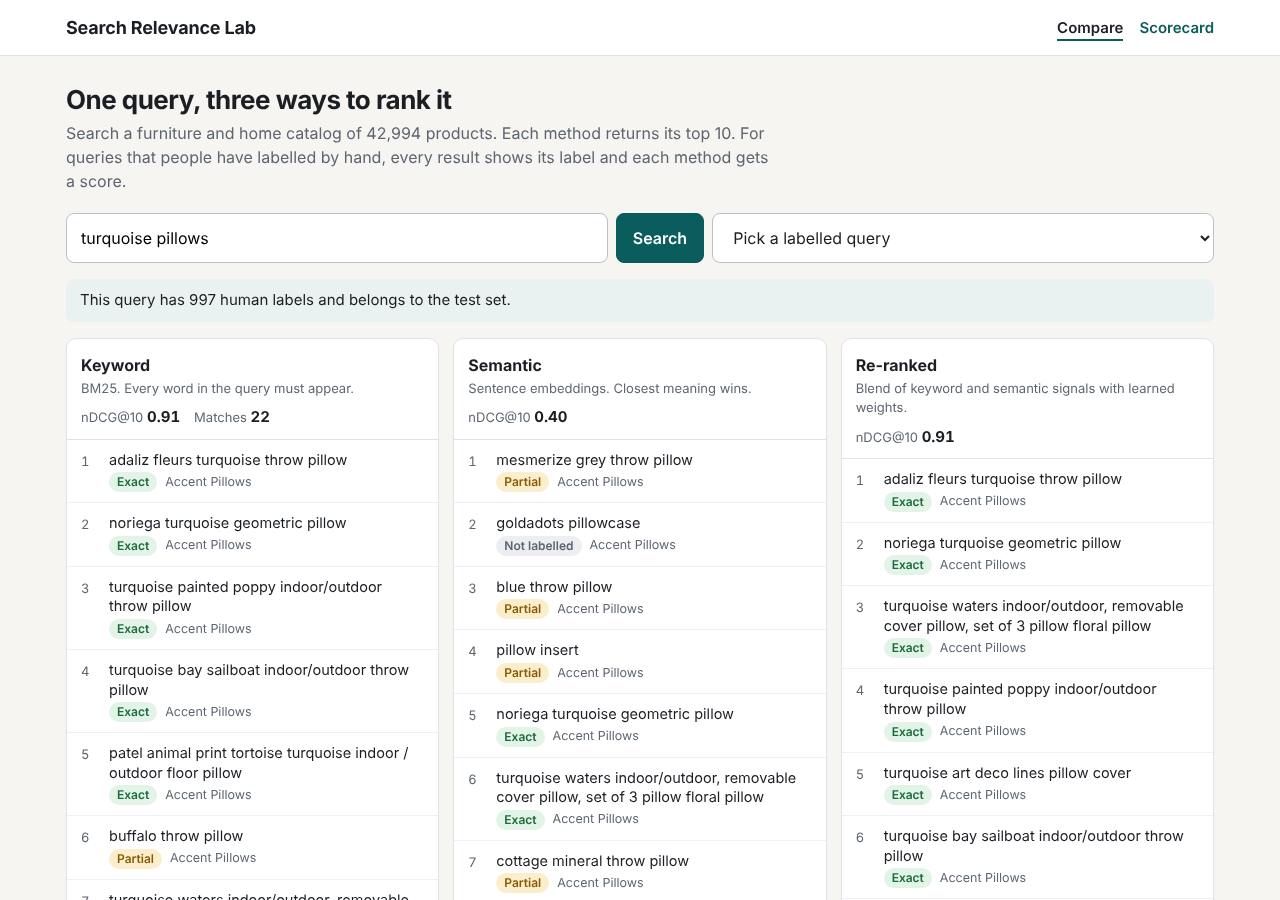
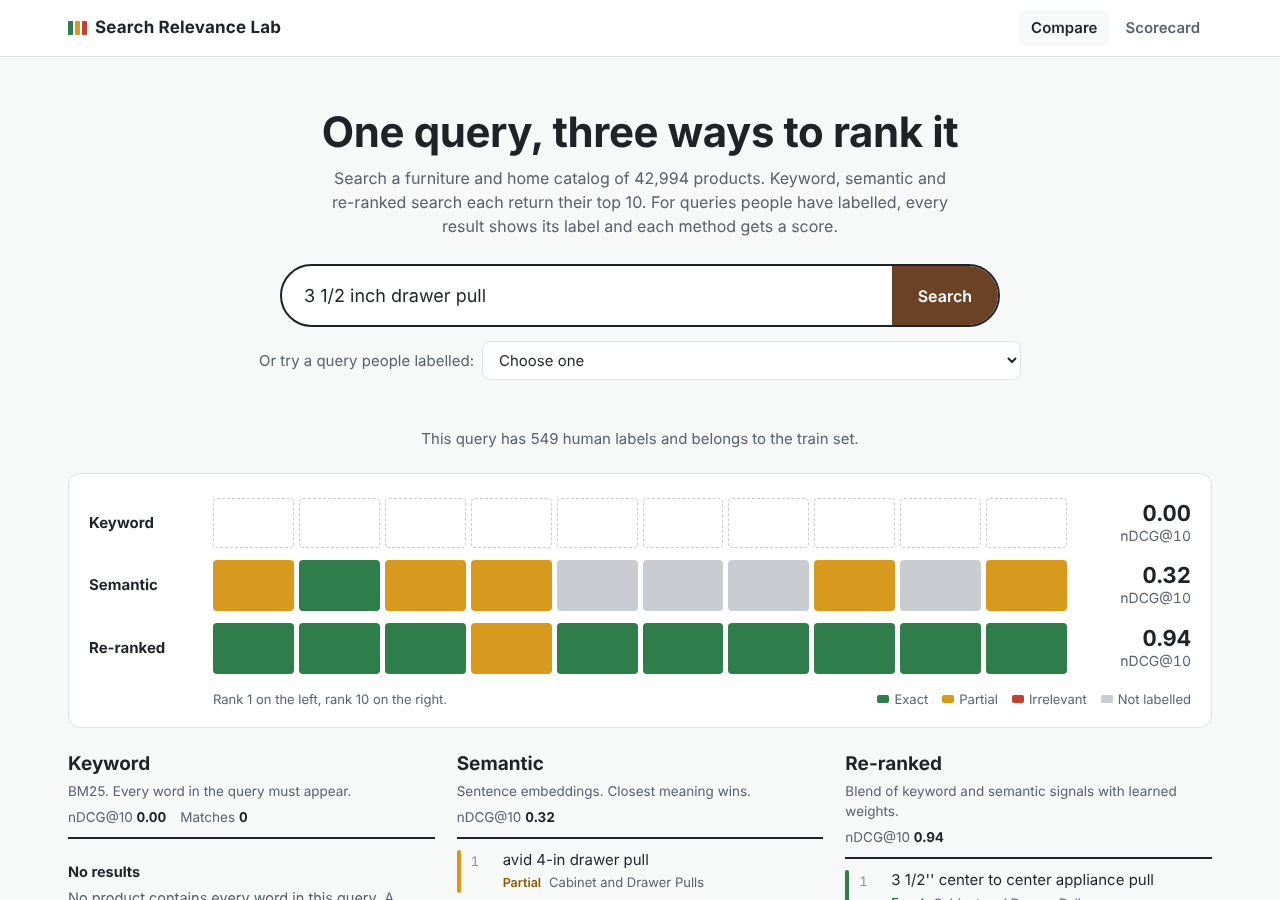
v0.2.0: search box and relevance strip design

diff --git a/index.html b/index.html
@@ -4,80 +4,120 @@
 <meta charset="utf-8">
 <meta name="viewport" content="width=device-width, initial-scale=1">
 <title>Search Relevance Lab</title>
+<link rel="preconnect" href="https://fonts.googleapis.com"><link rel="preconnect" href="https://fonts.gstatic.com" crossorigin><link href="https://fonts.googleapis.com/css2?family=Instrument+Sans:wdth,wght@75..100,400..700&display=swap" rel="stylesheet">
 <style>
-  :root { --ink:#1b1f24; --muted:#5d6670; --line:#dfe3e8; --bg:#f6f5f1; --card:#fff; --accent:#0b5c5c;
-          --exact:#1c6b3a; --exact-bg:#e2f3e8; --partial:#8a5a00; --partial-bg:#fbeecd; --irr:#9b2c2c; --irr-bg:#fbe3e3; --none:#5d6670; --none-bg:#eceef1; }
+  :root { --ink:#1f2328; --muted:#59616b; --faint:#8a929b; --line:#e1e4e7; --bg:#f7f8f8; --card:#fff; --walnut:#6b4226; --walnut-2:#55331c;
+          --exact:#2f7d4a; --partial:#d89a1e; --irr:#c2412d; --none:#c9cdd2;
+          --exact-ink:#256b3d; --partial-ink:#8a5d00; --irr-ink:#a83524; }
   * { box-sizing:border-box; }
-  body { margin:0; font:16px/1.5 system-ui,-apple-system,"Segoe UI",Roboto,sans-serif; color:var(--ink); background:var(--bg); }
-  a { color:var(--accent); }
+  body { margin:0; font:16px/1.5 "Instrument Sans",system-ui,sans-serif; color:var(--ink); background:var(--bg); -webkit-font-smoothing:antialiased; }
+  a { color:var(--walnut); }
+  .wrap { max-width:1180px; margin:0 auto; padding:0 18px; }
   header { background:var(--card); border-bottom:1px solid var(--line); }
-  .wrap { max-width:1180px; margin:0 auto; padding:0 16px; }
-  .top { display:flex; align-items:center; justify-content:space-between; gap:12px; padding-top:14px; padding-bottom:14px; flex-wrap:wrap; }
-  .brand { font-weight:700; font-size:18px; letter-spacing:-.01em; }
-  nav a { margin-right:16px; text-decoration:none; font-weight:600; font-size:15px; }
-  nav a:last-child { margin-right:0; }
-  nav a.on { color:var(--ink); border-bottom:2px solid var(--accent); padding-bottom:2px; }
-  h1 { font-size:26px; line-height:1.2; margin:28px 0 6px; letter-spacing:-.02em; }
-  .lede { color:var(--muted); margin:0 0 20px; max-width:70ch; }
-  form { display:flex; gap:8px; flex-wrap:wrap; }
-  input[type=search] { flex:1 1 260px; min-width:0; padding:12px 14px; font:inherit; border:1px solid #b9c0c8; border-radius:8px; background:#fff; }
-  button, select { font:inherit; padding:12px 16px; border-radius:8px; border:1px solid #b9c0c8; background:#fff; color:var(--ink); }
-  button.go { background:var(--accent); border-color:var(--accent); color:#fff; font-weight:600; cursor:pointer; }
-  select { flex:1 1 220px; min-width:0; max-width:100%; }
-  input:focus-visible, button:focus-visible, select:focus-visible, a:focus-visible { outline:3px solid #7fc4c4; outline-offset:2px; }
-  .status { margin:16px 0 0; padding:10px 14px; border-radius:8px; background:#e9f1f1; font-size:15px; }
-  .status.warn { background:var(--partial-bg); }
-  .tabs { display:none; margin-top:16px; border:1px solid var(--line); border-radius:8px; overflow:hidden; background:#fff; }
-  .tabs button { flex:1; border:0; border-radius:0; padding:10px 6px; font-size:14px; font-weight:600; background:#fff; color:var(--muted); cursor:pointer; }
-  .tabs button[aria-selected=true] { background:var(--accent); color:#fff; }
-  .cols { display:grid; grid-template-columns:repeat(3,minmax(0,1fr)); gap:14px; margin:16px 0 28px; }
-  .col { background:var(--card); border:1px solid var(--line); border-radius:10px; min-width:0; }
-  .col h2 { font-size:16px; margin:0; }
-  .colhead { padding:14px 14px 10px; border-bottom:1px solid var(--line); }
-  .how { color:var(--muted); font-size:13px; margin:2px 0 8px; }
-  .metric { display:flex; gap:14px; font-size:13px; color:var(--muted); flex-wrap:wrap; }
-  .metric b { color:var(--ink); font-size:15px; font-variant-numeric:tabular-nums; }
+  .top { display:flex; align-items:center; justify-content:space-between; gap:12px; height:56px; }
+  .brand { font-weight:700; font-size:17px; font-stretch:85%; letter-spacing:.01em; display:flex; align-items:center; gap:8px; white-space:nowrap; }
+  .brand i { display:inline-flex; gap:2px; }
+  .brand i b { width:5px; height:14px; border-radius:1px; }
+  nav { display:flex; gap:4px; }
+  nav a { text-decoration:none; font-weight:600; font-size:15px; color:var(--muted); padding:7px 12px; border-radius:6px; }
+  nav a.on { color:var(--ink); background:var(--bg); }
+  .hero { text-align:center; padding:52px 0 26px; }
+  h1 { font-size:clamp(28px,4vw,42px); line-height:1.08; margin:0 auto; font-weight:700; font-stretch:88%; letter-spacing:-.01em; max-width:26ch; text-wrap:balance; }
+  .lede { color:var(--muted); margin:12px auto 0; max-width:62ch; }
+  form { display:flex; max-width:720px; margin:26px auto 0; background:#fff; border:2px solid var(--ink); border-radius:40px; overflow:hidden; }
+  input[type=search] { flex:1; min-width:0; padding:16px 22px; font:inherit; font-size:18px; border:0; background:transparent; color:var(--ink); }
+  input[type=search]:focus { outline:none; }
+  form:focus-within { box-shadow:0 0 0 4px #e9ddd2; }
+  button.go { font:inherit; font-weight:600; font-size:16px; padding:0 26px; border:0; background:var(--walnut); color:#fff; cursor:pointer; }
+  button.go:hover { background:var(--walnut-2); }
+  .pickrow { margin:14px auto 0; display:flex; justify-content:center; align-items:center; gap:8px; flex-wrap:wrap; font-size:15px; color:var(--muted); }
+  select { font:inherit; font-size:15px; padding:8px 12px; border:1px solid var(--line); border-radius:8px; background:#fff; color:var(--ink); max-width:100%; }
+  button:focus-visible, select:focus-visible, a:focus-visible { outline:3px solid var(--partial); outline-offset:2px; }
+  .status { margin:22px auto 0; text-align:center; font-size:15px; color:var(--muted); max-width:70ch; }
+  .status.warn { color:var(--irr-ink); }
+  /* relevance strip */
+  .strip { background:var(--card); border:1px solid var(--line); border-radius:12px; padding:18px 20px; margin:22px 0 0; }
+  .strip-row { display:grid; grid-template-columns:110px 1fr 110px; align-items:center; gap:14px; padding:6px 0; }
+  .strip-row b { font-size:15px; }
+  .tiles { display:grid; grid-template-columns:repeat(10,1fr); gap:5px; }
+  .tiles span { aspect-ratio:1.6; border-radius:4px; background:var(--none); position:relative; }
+  .tiles span.g2 { background:var(--exact); } .tiles span.g1 { background:var(--partial); } .tiles span.g0 { background:var(--irr); }
+  .tiles span.gx { background:transparent; border:1px dashed var(--none); }
+  .strip-row .score { text-align:right; font-variant-numeric:tabular-nums; font-size:14px; color:var(--muted); }
+  .strip-row .score strong { display:block; font-size:22px; color:var(--ink); line-height:1.1; }
+  .strip-foot { display:flex; justify-content:space-between; gap:12px; flex-wrap:wrap; margin-top:10px; font-size:13px; color:var(--muted); padding-left:124px; }
+  .key { display:flex; gap:14px; flex-wrap:wrap; }
+  .key i { display:inline-block; width:12px; height:8px; border-radius:2px; margin-right:5px; vertical-align:1px; }
+  /* result columns */
+  .tabs { display:none; margin-top:18px; border-bottom:2px solid var(--line); }
+  .tabs button { flex:1; border:0; padding:10px 6px; font:inherit; font-size:15px; font-weight:600; background:none; color:var(--muted); cursor:pointer; border-bottom:3px solid transparent; margin-bottom:-2px; }
+  .tabs button[aria-selected=true] { color:var(--ink); border-bottom-color:var(--walnut); }
+  .cols { display:grid; grid-template-columns:repeat(3,minmax(0,1fr)); gap:22px; margin:22px 0 36px; }
+  .col { min-width:0; }
+  .col h2 { font-size:19px; margin:0; font-stretch:88%; }
+  .colhead { padding:0 0 10px; border-bottom:2px solid var(--ink); }
+  .how { color:var(--muted); font-size:13.5px; margin:2px 0 6px; }
+  .metric { display:flex; gap:14px; font-size:13.5px; color:var(--muted); flex-wrap:wrap; }
+  .metric b { color:var(--ink); font-variant-numeric:tabular-nums; }
   ol { list-style:none; margin:0; padding:0; }
-  li.r { display:grid; grid-template-columns:22px 1fr; gap:6px; padding:10px 14px; border-bottom:1px solid #eef0f2; }
-  li.r:last-child { border-bottom:0; }
-  .rank { color:var(--muted); font-size:13px; font-variant-numeric:tabular-nums; padding-top:2px; }
-  .name { font-size:14.5px; line-height:1.35; overflow-wrap:anywhere; }
-  .sub { font-size:12.5px; color:var(--muted); margin-top:3px; display:flex; gap:8px; flex-wrap:wrap; align-items:center; }
-  .chip { font-size:12px; font-weight:600; padding:1px 8px; border-radius:99px; white-space:nowrap; }
-  .g2 { color:var(--exact); background:var(--exact-bg); } .g1 { color:var(--partial); background:var(--partial-bg); }
-  .g0 { color:var(--irr); background:var(--irr-bg); } .gn { color:var(--none); background:var(--none-bg); }
-  .empty { padding:22px 14px; color:var(--muted); font-size:14.5px; }
+  li.r { display:grid; grid-template-columns:4px 22px 1fr; gap:10px; padding:11px 0; border-bottom:1px solid var(--line); }
+  li.r::before { content:""; grid-row:1; grid-column:1; border-radius:2px; background:var(--lab,transparent); }
+  li.r.g2 { --lab:var(--exact); } li.r.g1 { --lab:var(--partial); } li.r.g0 { --lab:var(--irr); } li.r.gn { --lab:var(--none); }
+  .rank { color:var(--faint); font-size:13px; font-variant-numeric:tabular-nums; padding-top:2px; }
+  .name { font-size:15px; line-height:1.35; overflow-wrap:anywhere; }
+  .sub { font-size:13px; color:var(--muted); margin-top:3px; display:flex; gap:8px; flex-wrap:wrap; align-items:center; }
+  .chip { font-size:12.5px; font-weight:600; white-space:nowrap; }
+  .chip.g2 { color:var(--exact-ink); } .chip.g1 { color:var(--partial-ink); } .chip.g0 { color:var(--irr-ink); } .chip.gn { color:var(--faint); }
+  .empty { padding:22px 0; color:var(--muted); font-size:14.5px; }
   .empty b { display:block; color:var(--ink); margin-bottom:4px; }
-  section.notes { background:var(--card); border:1px solid var(--line); border-radius:10px; padding:18px; margin:0 0 28px; }
-  section.notes h2 { font-size:17px; margin:0 0 8px; }
+  section.notes { border-top:2px solid var(--ink); padding:18px 0 0; margin:0 0 30px; }
+  section.notes h2 { font-size:19px; margin:0 0 8px; font-stretch:88%; }
   section.notes p, section.notes li { font-size:15px; max-width:80ch; }
   section.notes ul { padding-left:20px; margin:8px 0; }
   footer { color:var(--muted); font-size:13.5px; padding:0 0 32px; }
+  @media (max-width:420px) { .top { gap:6px; } nav { gap:0; } nav a { padding:6px 7px; font-size:14.5px; } .brand { font-size:15.5px; } }
+  @media (max-width:380px) { .brand i { display:none; } nav a { padding:6px 5px; } .wrap { padding:0 14px; } }
   @media (max-width:820px) {
-    h1 { font-size:22px; }
+    .hero { padding-top:32px; text-align:left; }
+    h1, .lede { margin-left:0; }
+    .pickrow { justify-content:flex-start; }
+    .status { text-align:left; margin-left:0; }
     .tabs { display:flex; }
     .cols { grid-template-columns:1fr; }
     .cols.ready .col { display:none; } .cols.ready .col.show { display:block; }
+    .strip { padding:14px; }
+    .strip-row { grid-template-columns:1fr auto; gap:6px 10px; }
+    .strip-row .tiles { grid-column:1 / -1; grid-row:2; }
+    .strip-row .score strong { display:inline; font-size:17px; margin-right:4px; }
+    .strip-foot { padding-left:0; }
+    input[type=search] { font-size:16px; padding:14px 16px; }
+    button.go { padding:0 18px; }
   }
 </style>
 </head>
 <body>
 <header><div class="wrap top">
-  <div class="brand">Search Relevance Lab</div>
+  <div class="brand"><i aria-hidden="true"><b style="background:var(--exact)"></b><b style="background:var(--partial)"></b><b style="background:var(--irr)"></b></i>Search Relevance Lab</div>
   <nav><a class="on" href="/">Compare</a><a href="/scorecard">Scorecard</a></nav>
 </div></header>
 
 <main class="wrap">
-  <h1>One query, three ways to rank it</h1>
-  <p class="lede">Search a furniture and home catalog of <span id="nProducts">about 43,000</span> products. Each method returns its top 10. For queries that people have labelled by hand, every result shows its label and each method gets a score.</p>
-
-  <form id="f">
-    <input type="search" id="q" name="q" aria-label="Search query" placeholder="Type a product search" autocomplete="off" maxlength="120">
-    <button class="go" type="submit">Search</button>
-    <select id="pick" aria-label="Pick a labelled query"><option value="">Pick a labelled query</option></select>
-  </form>
+  <section class="hero">
+    <h1>One query, three ways to rank it</h1>
+    <p class="lede">Search a furniture and home catalog of <span id="nProducts">about 43,000</span> products. Keyword, semantic and re-ranked search each return their top 10. For queries people have labelled, every result shows its label and each method gets a score.</p>
+    <form id="f" role="search">
+      <input type="search" id="q" name="q" aria-label="Search query" placeholder="Search the catalog" autocomplete="off" maxlength="120">
+      <button class="go" type="submit">Search</button>
+    </form>
+    <div class="pickrow"><label for="pick">Or try a query people labelled:</label> <select id="pick"><option value="">Choose one</option></select></div>
+  </section>
 
   <div id="status" class="status" hidden></div>
+
+  <section class="strip" id="strip" hidden aria-label="Labels of the top 10 results for each method">
+    <div id="strip-rows"></div>
+    <div class="strip-foot"><span>Rank 1 on the left, rank 10 on the right.</span><span class="key"><span><i style="background:var(--exact)"></i>Exact</span><span><i style="background:var(--partial)"></i>Partial</span><span><i style="background:var(--irr)"></i>Irrelevant</span><span><i style="background:var(--none)"></i>Not labelled</span></span></div>
+  </section>
 
   <div class="tabs" id="tabs" role="tablist" hidden>
     <button role="tab" data-m="keyword" aria-selected="true">Keyword</button>
@@ -130,11 +170,22 @@ function render(d) {
       ? r.results.map((x, i) => {
           let chip = "";
           if (d.labelled) { const [t, c] = x.label === null ? ["Not labelled", "gn"] : LABEL[x.label]; chip = `<span class="chip ${c}">${t}</span>`; }
-          return `<li class="r"><span class="rank">${i + 1}</span><div><div class="name">${esc(x.name)}</div><div class="sub">${chip}<span>${esc(x.cls || "No class")}</span></div></div></li>`;
+          const lc = d.labelled ? (x.label === null ? "gn" : LABEL[x.label][1]) : "";
+          return `<li class="r ${lc}"><span class="rank">${i + 1}</span><div><div class="name">${esc(x.name)}</div><div class="sub">${chip}<span>${esc(x.cls || "No class")}</span></div></div></li>`;
         }).join("")
       : `<li class="empty"><b>No results</b>No product contains every word in this query. A shopper would see an empty page here.</li>`;
   }
   $("cols").hidden = false; $("cols").classList.add("ready"); $("tabs").hidden = false;
+  if (d.labelled) {
+    const NAMES = { keyword: "Keyword", semantic: "Semantic", reranked: "Re-ranked" };
+    $("strip-rows").innerHTML = METHODS.map((m) => {
+      const r = d[m], tiles = [];
+      for (let i = 0; i < 10; i++) { const x = r.results[i]; tiles.push(`<span class="${!x ? "gx" : x.label === null ? "gn" : LABEL[x.label][1]}"></span>`); }
+      const sc = r.ndcg !== null && r.ndcg !== undefined ? `<strong>${r.ndcg.toFixed(2)}</strong>nDCG@10` : "";
+      return `<div class="strip-row"><b>${NAMES[m]}</b><div class="tiles">${tiles.join("")}</div><div class="score">${sc}</div></div>`;
+    }).join("");
+    $("strip").hidden = false;
+  } else { $("strip").hidden = true; }
   status(d.labelled
     ? `This query has ${d.labelled.labels.toLocaleString("en")} human labels and belongs to the ${d.labelled.split} set.`
     : "Nobody has labelled this query, so the results below have no scores.");

diff --git a/scorecard.html b/scorecard.html
@@ -4,22 +4,24 @@
 <meta charset="utf-8">
 <meta name="viewport" content="width=device-width, initial-scale=1">
 <title>Scorecard · Search Relevance Lab</title>
+<link rel="preconnect" href="https://fonts.googleapis.com"><link rel="preconnect" href="https://fonts.gstatic.com" crossorigin><link href="https://fonts.googleapis.com/css2?family=Instrument+Sans:wdth,wght@75..100,400..700&display=swap" rel="stylesheet">
 <style>
-  :root { --ink:#1b1f24; --muted:#5d6670; --line:#dfe3e8; --bg:#f6f5f1; --card:#fff; --accent:#0b5c5c; }
+  :root { --ink:#1f2328; --muted:#59616b; --line:#e1e4e7; --bg:#f7f8f8; --card:#fff; --accent:#6b4226; --exact:#2f7d4a; --partial:#d89a1e; --irr:#c2412d; }
   * { box-sizing:border-box; }
-  body { margin:0; font:16px/1.5 system-ui,-apple-system,"Segoe UI",Roboto,sans-serif; color:var(--ink); background:var(--bg); }
+  body { margin:0; font:16px/1.5 "Instrument Sans",system-ui,sans-serif; -webkit-font-smoothing:antialiased; color:var(--ink); background:var(--bg); }
   a { color:var(--accent); }
   header { background:var(--card); border-bottom:1px solid var(--line); }
   .wrap { max-width:1180px; margin:0 auto; padding:0 16px; }
-  .top { display:flex; align-items:center; justify-content:space-between; gap:12px; padding-top:14px; padding-bottom:14px; flex-wrap:wrap; }
-  .brand { font-weight:700; font-size:18px; letter-spacing:-.01em; }
-  nav a { margin-right:16px; text-decoration:none; font-weight:600; font-size:15px; }
-  nav a:last-child { margin-right:0; }
-  nav a.on { color:var(--ink); border-bottom:2px solid var(--accent); padding-bottom:2px; }
-  h1 { font-size:26px; line-height:1.2; margin:28px 0 6px; letter-spacing:-.02em; }
+  .top { display:flex; align-items:center; justify-content:space-between; gap:12px; height:56px; }
+  .brand { font-weight:700; font-size:17px; font-stretch:85%; letter-spacing:.01em; display:flex; align-items:center; gap:8px; white-space:nowrap; }
+  .brand i { display:inline-flex; gap:2px; } .brand i b { width:5px; height:14px; border-radius:1px; }
+  nav { display:flex; gap:4px; }
+  nav a { text-decoration:none; font-weight:600; font-size:15px; color:var(--muted); padding:7px 12px; border-radius:6px; }
+  nav a.on { color:var(--ink); background:var(--bg); }
+  h1 { font-size:clamp(28px,4vw,40px); line-height:1.08; margin:36px 0 8px; font-weight:700; font-stretch:88%; letter-spacing:-.01em; }
   h2 { font-size:18px; margin:0 0 6px; }
   .lede { color:var(--muted); margin:0 0 20px; max-width:72ch; }
-  .card { background:var(--card); border:1px solid var(--line); border-radius:10px; padding:18px; margin:0 0 18px; }
+  .card { background:var(--card); border:1px solid var(--line); border-top:3px solid var(--ink); border-radius:0 0 10px 10px; padding:18px; margin:0 0 22px; }
   .card p, .card li { font-size:15px; max-width:82ch; }
   .card ul { padding-left:20px; margin:8px 0; }
   .scroll { overflow-x:auto; }
@@ -34,17 +36,19 @@
   .controls { display:flex; gap:8px; flex-wrap:wrap; margin:10px 0; }
   select, input { font:inherit; padding:9px 12px; border:1px solid #b9c0c8; border-radius:8px; background:#fff; min-width:0; }
   input { flex:1 1 180px; } select { flex:1 1 180px; max-width:100%; }
-  select:focus-visible, input:focus-visible, a:focus-visible, th button:focus-visible { outline:3px solid #7fc4c4; outline-offset:2px; }
+  select:focus-visible, input:focus-visible, a:focus-visible, th button:focus-visible { outline:3px solid var(--partial); outline-offset:2px; }
   th button { font:inherit; font-weight:600; color:inherit; background:none; border:0; padding:0; cursor:pointer; }
   th button[aria-pressed=true] { color:var(--ink); text-decoration:underline; }
   .small { font-size:13.5px; color:var(--muted); }
   footer { color:var(--muted); font-size:13.5px; padding:0 0 32px; }
+  @media (max-width:420px) { .top { gap:6px; } nav { gap:0; } nav a { padding:6px 7px; font-size:14.5px; } .brand { font-size:15.5px; } }
+  @media (max-width:380px) { .brand i { display:none; } nav a { padding:6px 5px; } .wrap { padding:0 14px; } }
   @media (max-width:820px) { h1 { font-size:22px; } }
 </style>
 </head>
 <body>
 <header><div class="wrap top">
-  <div class="brand">Search Relevance Lab</div>
+  <div class="brand"><i aria-hidden="true"><b style="background:var(--exact)"></b><b style="background:var(--partial)"></b><b style="background:var(--irr)"></b></i>Search Relevance Lab</div>
   <nav><a href="/">Compare</a><a class="on" href="/scorecard">Scorecard</a></nav>
 </div></header>
 

diff --git a/docs/decisions/0004-search-box-and-relevance-strip.md b/docs/decisions/0004-search-box-and-relevance-strip.md
@@ -1,0 +1,19 @@
+# 0004: Lead with a search box and a relevance strip
+
+**Status:** Accepted · 23 November 2026
+
+## Context
+
+Version 0.1.0 used the same visual template as the other portfolio apps, and a visitor had to read three lists of ten product names to see which method ranked better.
+
+## Decision
+
+Make the page look like a search engine: a large search box in the middle, the labelled queries as a second way in. For a labelled query, show a relevance strip above the lists: one row of 10 squares per method, coloured by the human label of each result (exact, partial, irrelevant, not labelled), with nDCG@10 next to each row. Each result in the lists keeps a thin bar in the same colour.
+
+The app gets its own look: cool white, Instrument Sans, walnut for the search button (the catalog is furniture), and the four label colours as the only other colours. The scorecard page uses the same header, type and colours.
+
+## Consequences
+
+- The difference between methods is visible in one glance before any product name is read.
+- Typed queries have no labels, so they show no strip. The status line says why.
+- Labels are shown by colour and by word, so the page does not rely on colour alone.

diff --git a/CHANGELOG.md b/CHANGELOG.md
@@ -2,6 +2,19 @@
 
 All notable changes to Search Relevance Lab. Versions follow [docs/versioning.md](docs/versioning.md).
 
+## [0.2.0] - 2026-11-23
+
+### Changed
+- New design: a large search box in the middle of the page, and a relevance strip for labelled queries that shows the label of each of the top 10 results for all three methods, with nDCG@10 next to each row.
+- Each result shows its label as a coloured bar and a word.
+- Own look: cool white, Instrument Sans, walnut search button. The scorecard page shares the new header, type and colours.
+- New screenshots.
+
+### Added
+- Decision record 0004: search box and relevance strip.
+
+Search, scores and data are unchanged.
+
 ## [0.1.0] - 2026-11-16
 
 ### Added

diff --git a/README.md b/README.md
@@ -2,7 +2,7 @@
 
 **Compare keyword, semantic and re-ranked product search side by side, scored against human relevance labels.**
 
-Live demo: [search-relevance-lab.onrender.com](https://search-relevance-lab.onrender.com) (free hosting: first load can take about a minute) · Current version: **v0.1.0** ([changelog](CHANGELOG.md))
+Live demo: [search-relevance-lab.onrender.com](https://search-relevance-lab.onrender.com) (free hosting: first load can take about a minute) · Current version: **v0.2.0** ([changelog](CHANGELOG.md))
 
 ![Compare view](docs/screenshots/compare-desktop.png)
 
